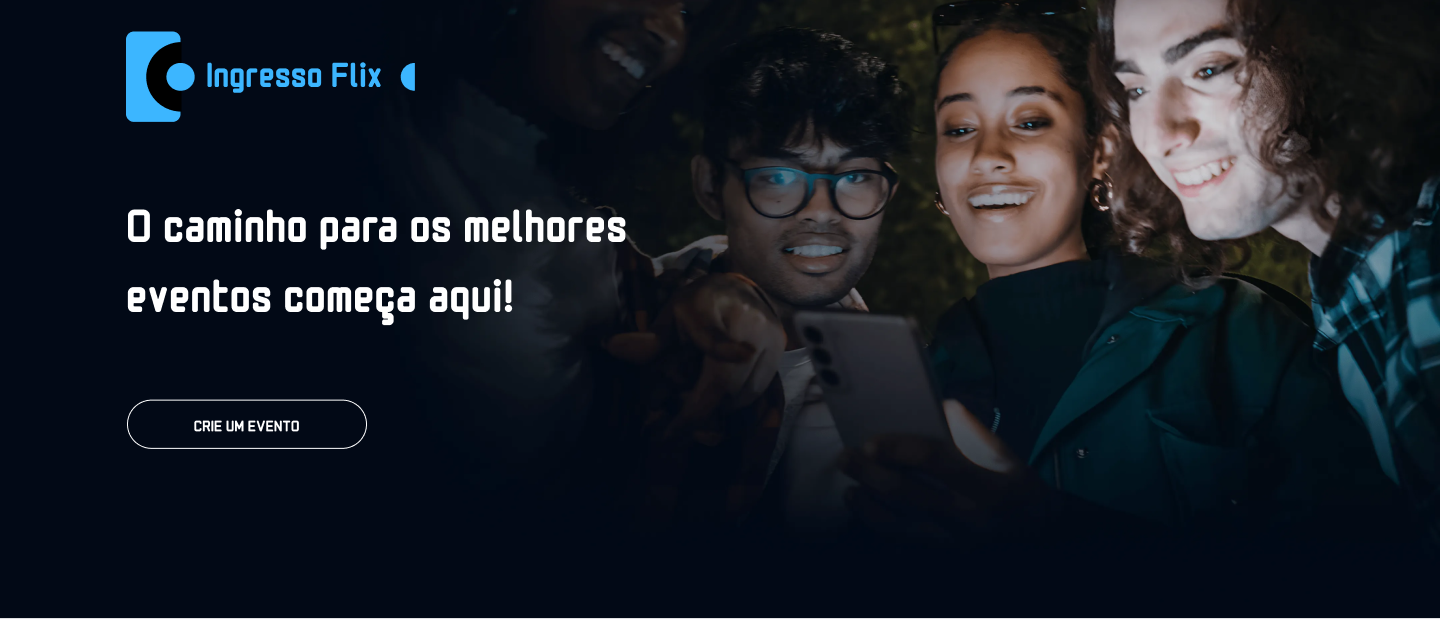
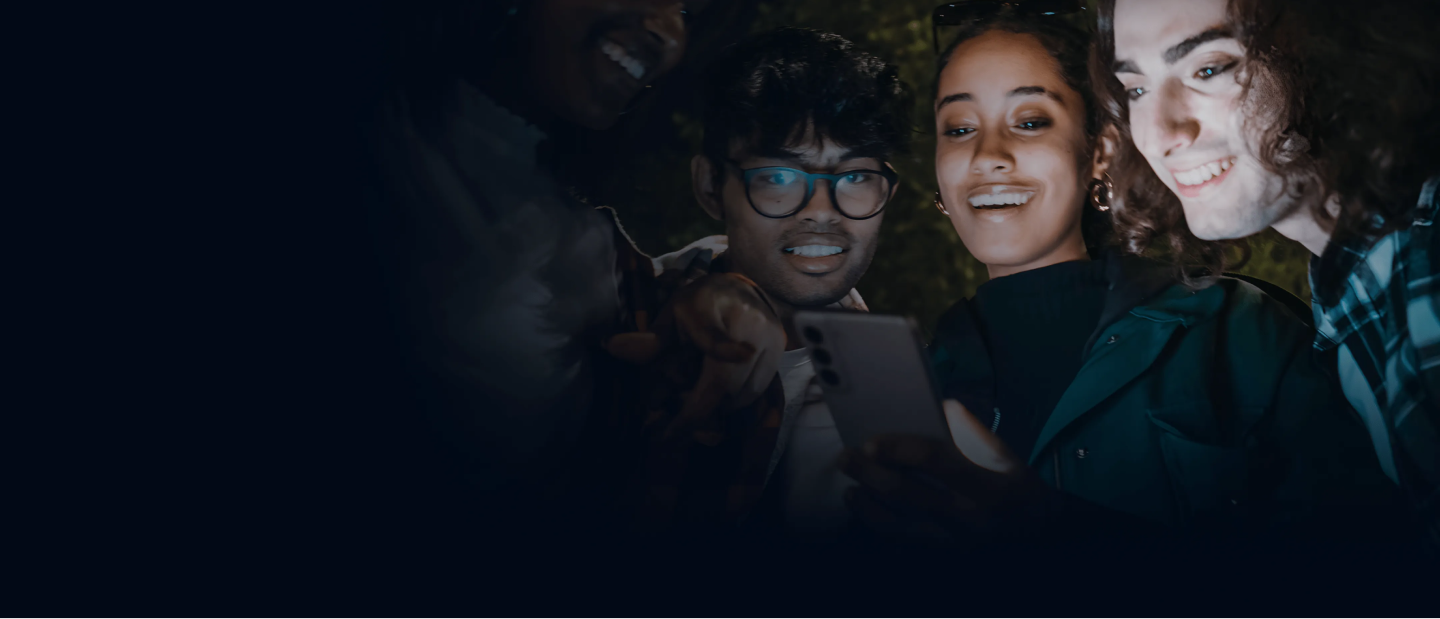
problem with import background image with styled-components

diff --git a/src/app/layout.tsx b/src/app/layout.tsx
@@ -14,6 +14,9 @@ export default function RootLayout({
   return (
     <html lang="en">
       <head>
+        <link rel="preconnect" href="https://fonts.googleapis.com" />
+        <link rel="preconnect" href="https://fonts.gstatic.com" />
+        <link href="https://fonts.googleapis.com/css2?family=Monomaniac+One&display=swap" rel="stylesheet" />
         <GlobalStyle />
       </head>
       <body>

diff --git a/src/app/Components/PageHome/SectionHero/style.tsx b/src/app/Components/PageHome/SectionHero/style.tsx
@@ -1,7 +1,11 @@
 import styled from "styled-components";
 
+import banner from '../../../../assets/images/banner/banner-home.png';
+
 const Section = styled.section`
+  background-image: url(${banner});
   h1 {
+    width: 52.5rem;
     color: #FFF;
     font-family: Monomaniac One;
     font-size: 4.8rem;

diff --git a/src/app/Components/PageHome/SectionHero/index.tsx b/src/app/Components/PageHome/SectionHero/index.tsx
@@ -1,6 +1,5 @@
 'use client'
 
-// Components
 import ButtonPrimary from '../../Buttons/index';
 import Section from './style';
 
@@ -13,4 +12,4 @@ const SectionHero = () => {
   )
 }
 
-export default SectionHero
+export default SectionHero;

diff --git a/globalStyles.tsx b/globalStyles.tsx
@@ -3,8 +3,6 @@ import { createGlobalStyle } from 'styled-components';
 
 const GlobalStyle = createGlobalStyle`
 
-@import url('https://fonts.googleapis.com/css2?family=Monomaniac+One&display=swap');
-
   
 *,
 *::before,
